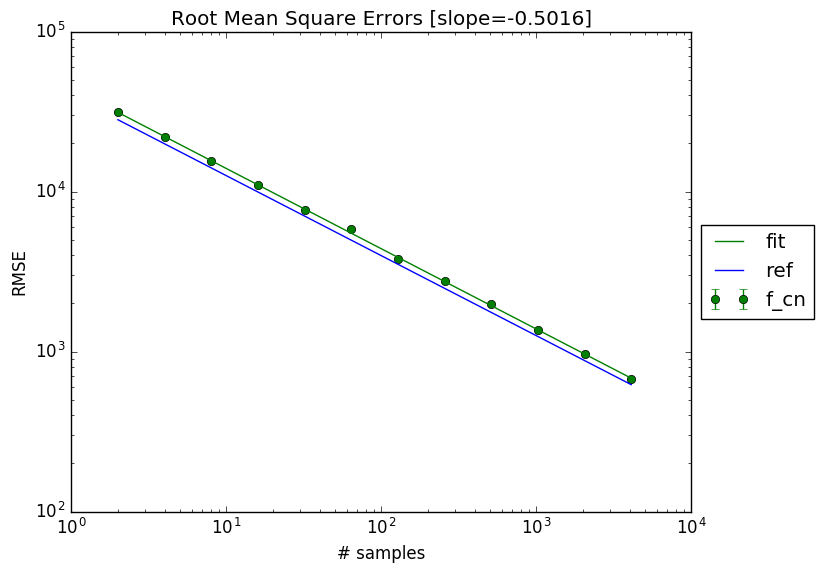
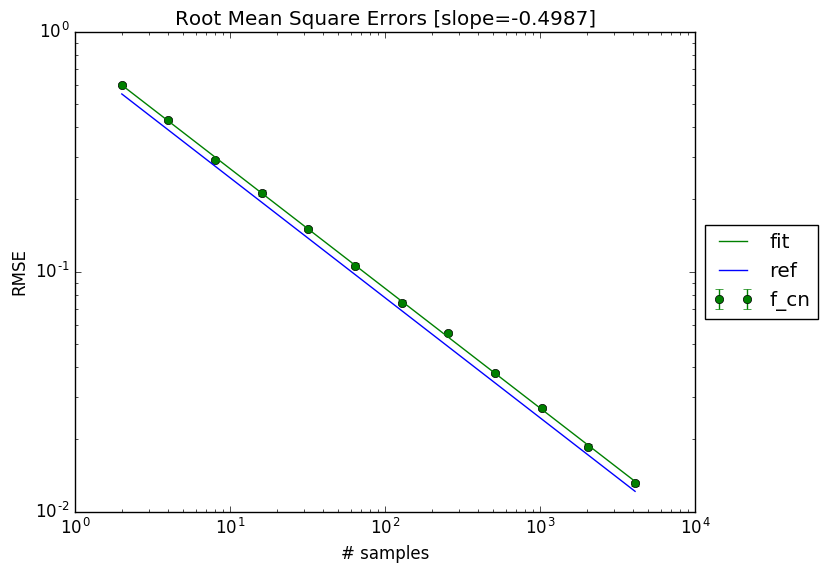
Final update

diff --git a/src/mc_tools.py b/src/mc_tools.py
@@ -57,7 +57,7 @@ def bootstrapping(data, config=Configuration()):
 ###################################################################################################################################################################################
 ## Visualization
 ###################################################################################################################################################################################
-def vis_RMSE(f, config=Configuration(), plot=True, save=True):
+def vis_RMSE(f, config=Configuration(), exact=None, plot=True, save=True):
     # nb_experiments x len(nb_samples)
     data = calculate_experiments(f=f, config=config)
     # Select 1 RMSE
@@ -67,10 +67,14 @@ def vis_RMSE(f, config=Configuration(), plot=True, save=True):
     print('slope RMSE:\t' + str(coefficient_RMSE[0]))
     print('intercept RMSE:\t' + str(coefficient_RMSE[1]))
     # Visualization
-    _vis_RMSE(name=f.__name__, xs=config.nb_samples, ys=RMSE, yerr=RMSE_RMSE, plot=plot, save=save)
+    _vis_RMSE(name=f.__name__, xs=config.nb_samples, ys=RMSE, yerr=RMSE_RMSE, exact=exact, plot=plot, save=save)
 
-def _vis_RMSE(name, xs, ys, yerr, plot=True, save=True, ref_offset=0.99):
+def _vis_RMSE(name, xs, ys, yerr, exact=None, plot=True, save=True, ref_offset=1.5):
     plt.figure()
+    
+    if exact is not None:
+        ys /= abs(exact)
+        yerr /= abs(exact)
     
     # RMSE errorbar
     plt.errorbar(xs, ys, yerr=yerr, ls='None', marker='o', color='g', label=name)

diff --git a/src/test.py b/src/test.py
@@ -1,4 +1,4 @@
-from geometry import surface_area_hitmiss, pip_cn, pip_wn, pip_path
+from geometry import surface_area_exact, surface_area_hitmiss, pip_cn, pip_wn, pip_path
 from mc_tools import Configuration, vis_RMSE
 import numpy as np
 
@@ -13,8 +13,9 @@ def test_polygon2():
     p_vs = [[0.0, 0.0], [1.0, 0.0], [1.0, 1.0], [0.0, 1.0]]
     return [np.array(v) for v in p_vs]
     
-def test(exp=10):
+def test(exp=12):
     p_vs = test_polygon1()
+    exact = surface_area_exact(p_vs)
     
     config = Configuration()
     config.nb_samples = [2**i for i in range(1, exp+1)]
@@ -24,10 +25,10 @@ def test(exp=10):
     def f_path(s): return surface_area_hitmiss(f=pip_path, p_vs=p_vs, samples=s, plot=False)
     
     for f in [f_cn, f_wn, f_path]:
-        vis_RMSE(f=f, config=config)
+        vis_RMSE(f=f, config=config, exact=exact)
         
 def test_border():
-    p_vs, mean = test_polygon2()
+    p_vs = test_polygon2()
     
     vertices = [np.array([0.0, 0.0]), np.array([1.0, 0.0]), np.array([1.0, 1.0]), np.array([0.0, 1.0])]
     edges    = [np.array([0.0, 0.5]), np.array([1.0, 0.5]), np.array([0.5, 0.0]), np.array([1.0, 0.5])]
